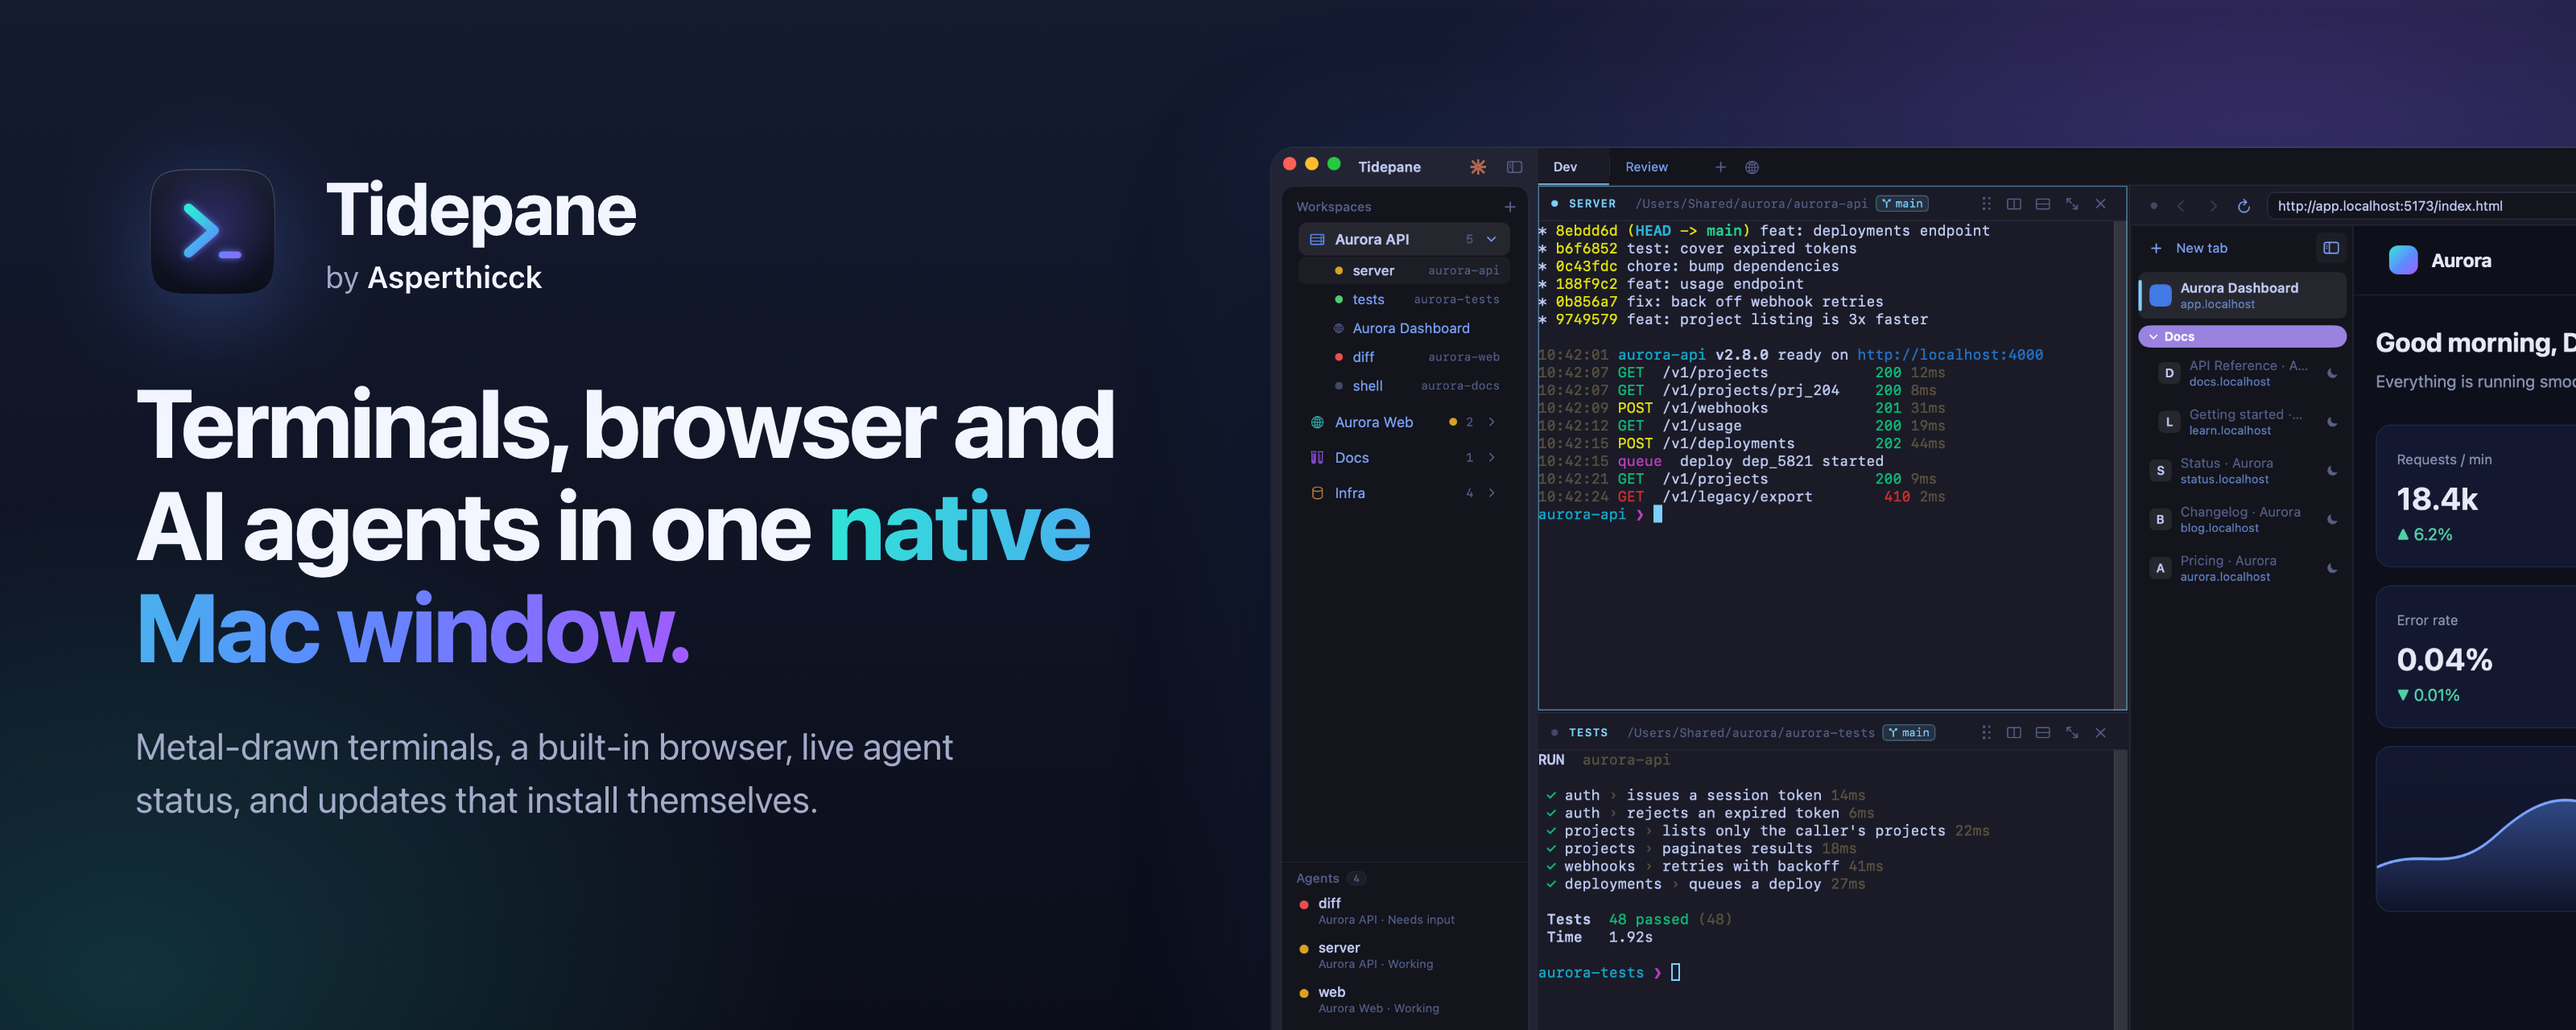
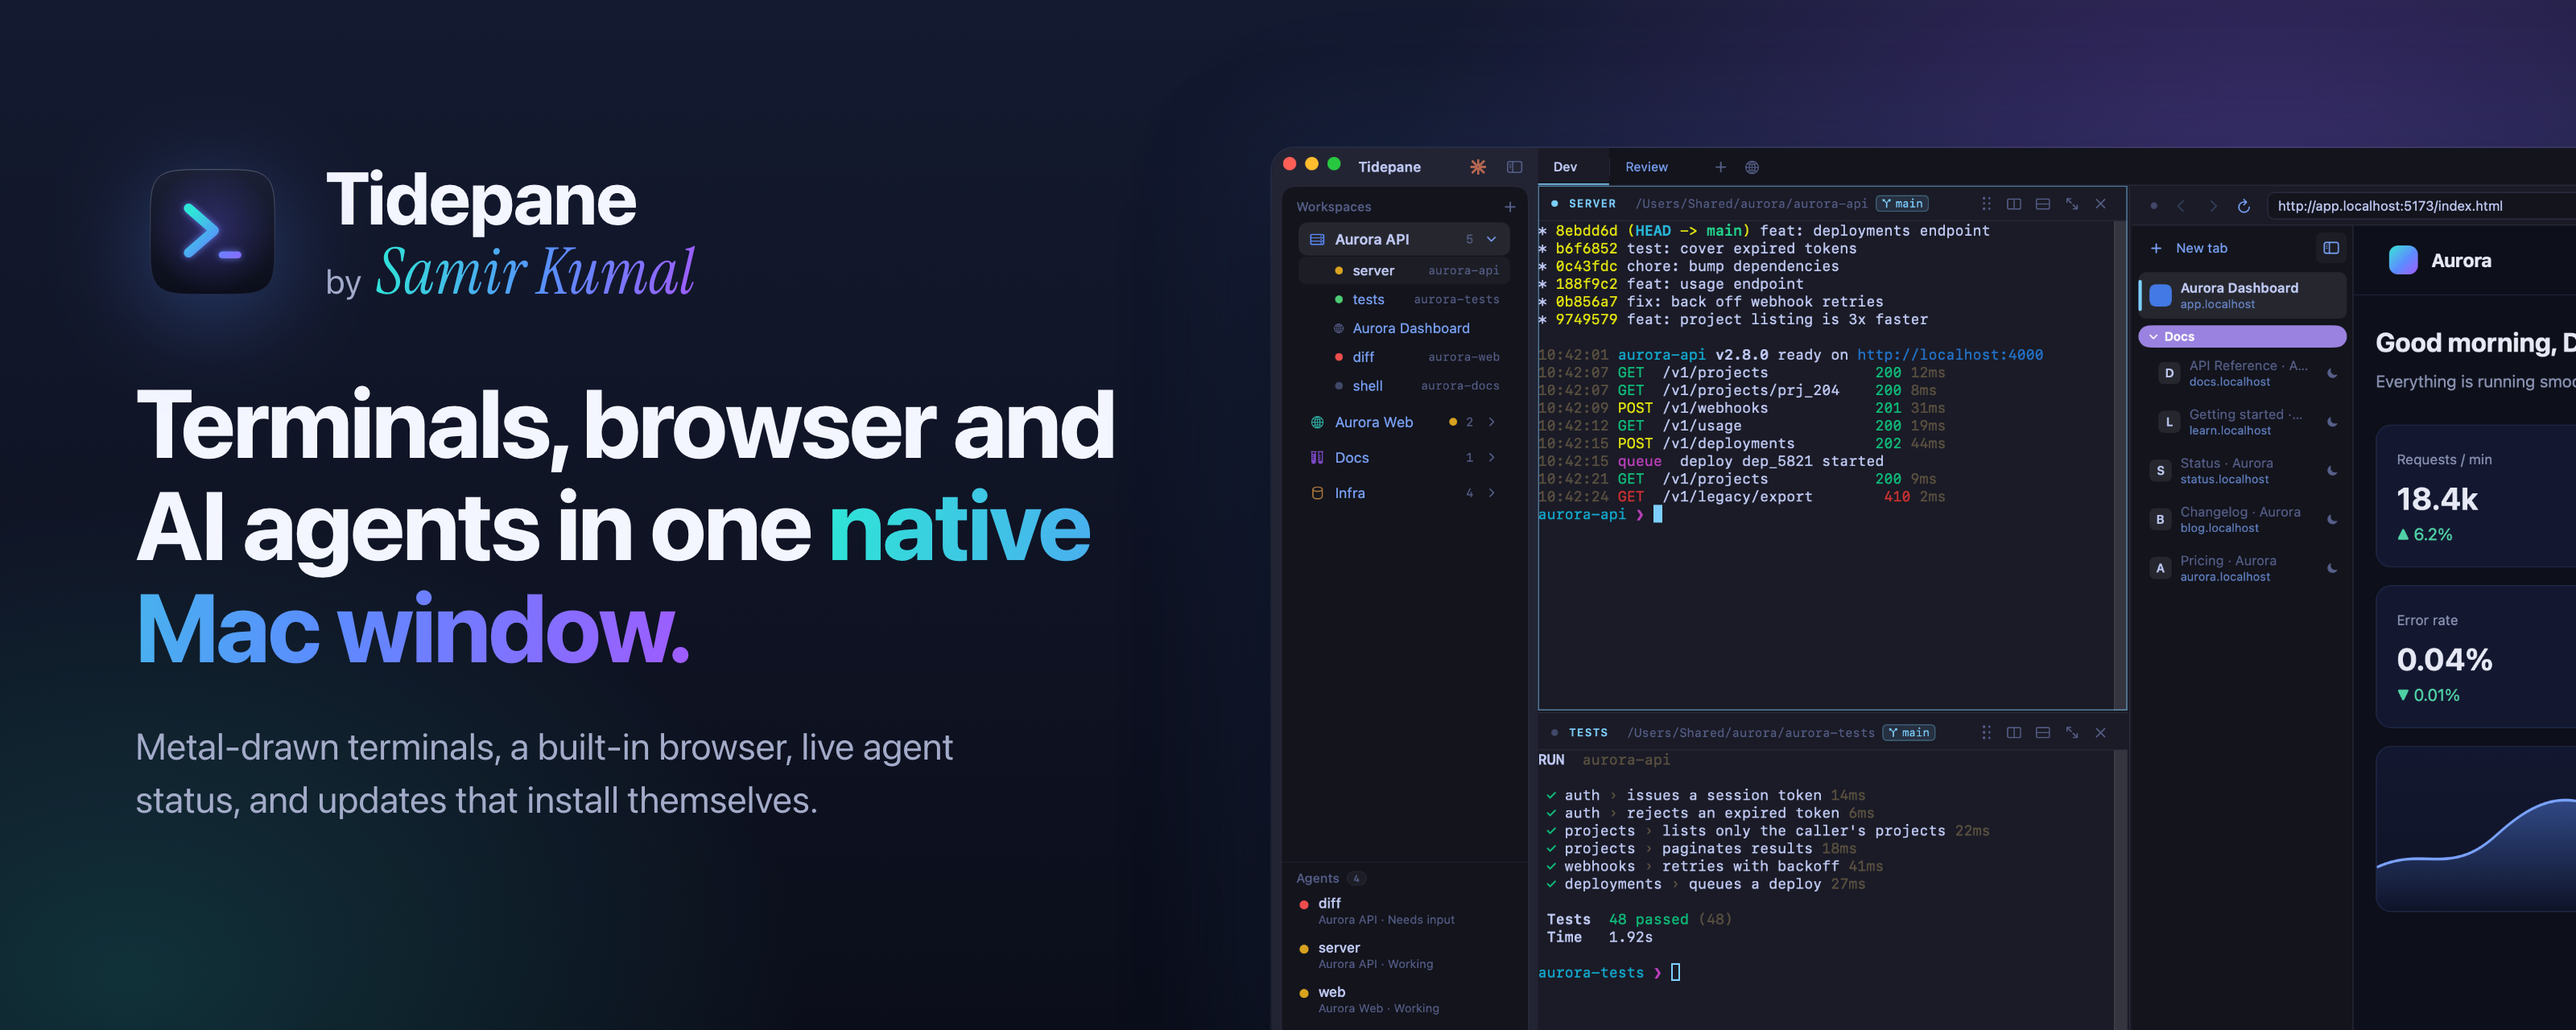
docs: byline is Samir Kumal (serif byline image); first launch leads with Open Anyway
Claude-Session: https://claude.ai/code/session_015LfWFN5erB6SotLefp1npX

Changed region(s): [[0.125, 0.1562, 0.2812, 0.2812]]

diff --git a/README.md b/README.md
@@ -4,7 +4,7 @@
 
 <h1 align="center">Tidepane</h1>
 
-<p align="center"><sub>by <b>Asperthicck</b></sub></p>
+<p align="center"><img src="assets/byline.png" alt="by Samir Kumal" height="60"></p>
 
 <p align="center">
   <b>Terminals, browser and AI agents in one native Mac window.</b><br>
@@ -112,7 +112,7 @@ Seven theme families, each with a dark and a light mode, or match the system. Pi
 1. Download the latest `.zip` from the [Releases page](https://github.com/TermSpace-vibes/tidepane-releases/releases/latest) and unzip it.
 2. Drag the app into your **Applications** folder and open it.
 
-**First launch.** The app is signed, but it is not yet notarized by Apple, so macOS asks you to confirm the first time. Control-click the app and choose **Open**, or go to **System Settings → Privacy & Security** and choose **Open Anyway**. You only do this once.
+**First launch.** The app is signed, but it is not yet notarized by Apple, so macOS asks you to confirm the first time. Open **System Settings → Privacy & Security** and choose **Open Anyway** (on macOS 14 you can also Control-click the app and choose **Open**; macOS 15 and later removed that route). You only do this once.
 
 **Updating.** The app checks for new versions in the background. When one is ready an **Update** button appears in the sidebar. Click it and the app restarts as the new version; your terminals keep running.
 
@@ -125,6 +125,6 @@ Your workspaces, layouts, bookmarks and history are stored in a local database o
 <br>
 
 <p align="center"><sub>
-Tidepane by Asperthicck is an independent project. Claude and Claude Code are trademarks of Anthropic; Mac, macOS and Metal are trademarks of Apple Inc.
+Tidepane by Samir Kumal is an independent project. Claude and Claude Code are trademarks of Anthropic; Mac, macOS and Metal are trademarks of Apple Inc.
 Neither company endorses or is affiliated with this app.
 </sub></p>
